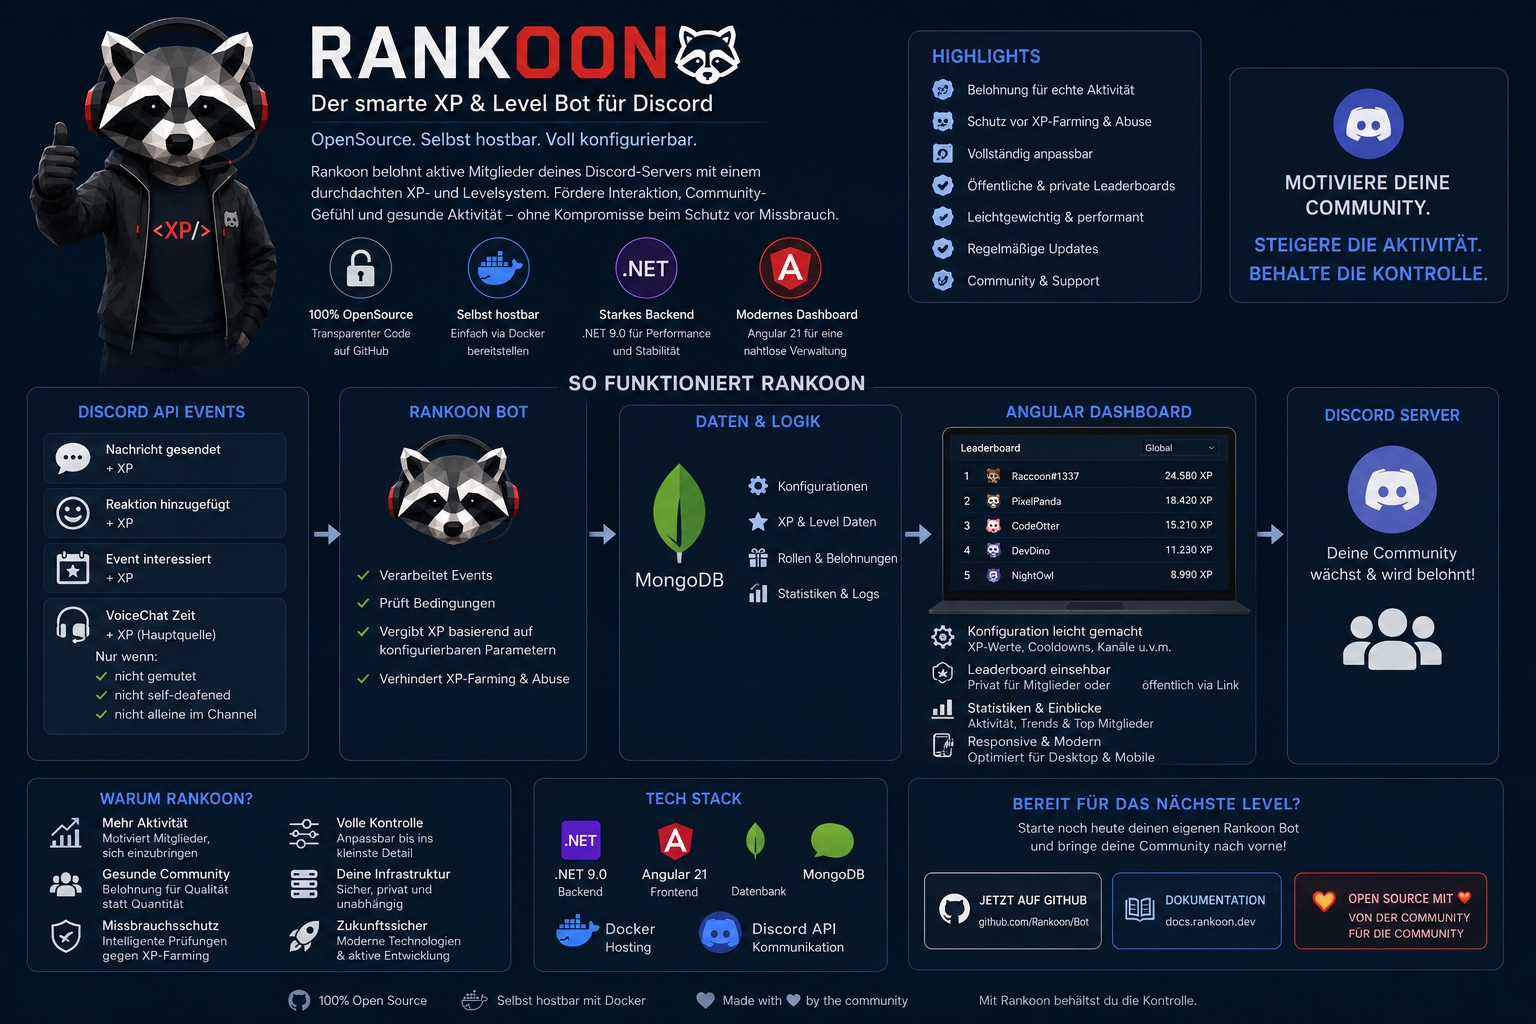
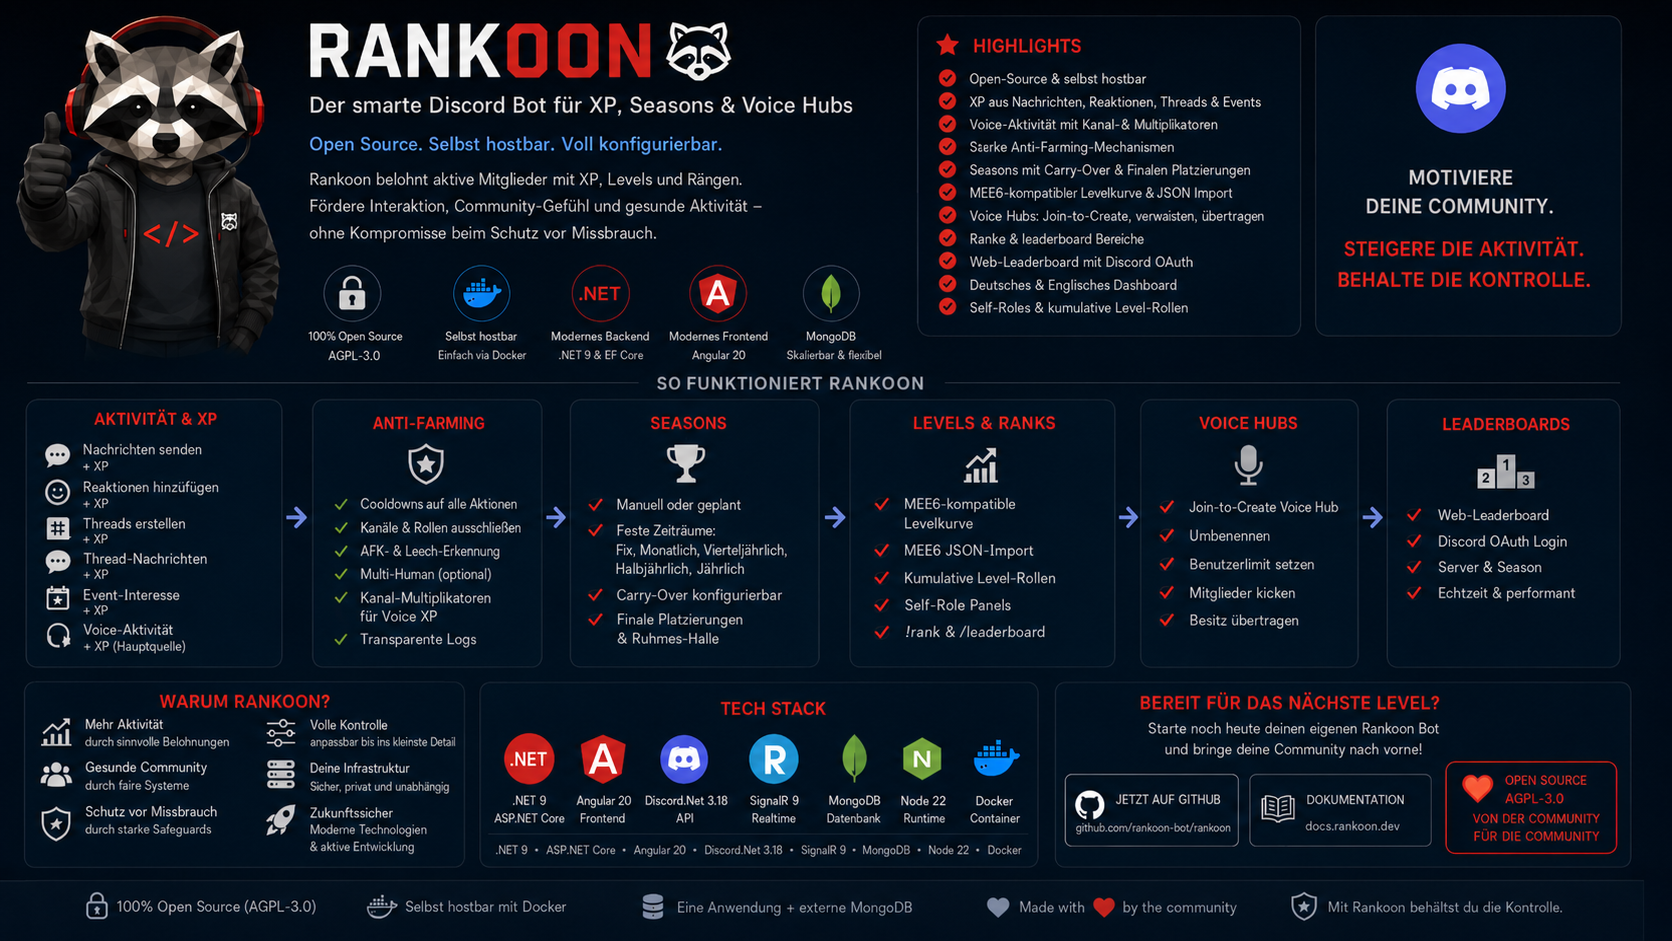
feat: implement unique user filtering in leaderboard and add loading spinner to main layout

Changed region(s): [[0.0, 0.0, 0.9688, 0.9862], [0.7812, 0.0308, 0.9688, 0.3082], [0.9688, 0.0616, 1.0, 0.0925]]

diff --git a/Frontend/src/app/pages/dashboard/dashboard.component.ts b/Frontend/src/app/pages/dashboard/dashboard.component.ts
@@ -1,4 +1,4 @@
-import { Component, inject, OnInit, signal } from '@angular/core';
+import { Component, effect, inject, signal } from '@angular/core';
 import { CommonModule } from '@angular/common';
 import { RouterLink } from '@angular/router';
 import { AuthStore } from '../../store/auth.store';
@@ -164,7 +164,7 @@ import { finalize } from 'rxjs';
   `,
   styleUrls: ['./dashboard.component.scss']
 })
-export class DashboardComponent implements OnInit {
+export class DashboardComponent {
   public readonly authStore = inject(AuthStore);
   public readonly appStore = inject(AppStore);
   private readonly guildService = inject(GuildService);
@@ -174,19 +174,38 @@ export class DashboardComponent implements OnInit {
   public readonly data = signal<DashboardData | null>(null);
   public readonly loading = signal(false);
   public readonly error = signal('');
+  private selectedGuildId: string | null = null;
+  private requestId = 0;
 
-  ngOnInit(): void {
-    this.loadDashboardData();
+  constructor() {
+    effect(() => {
+      const guildId = this.appStore.selectedGuild()?.id ?? null;
+      if (guildId === this.selectedGuildId) return;
+
+      this.selectedGuildId = guildId;
+      if (!guildId) {
+        this.data.set(null);
+        this.loading.set(false);
+        return;
+      }
+
+      this.loadDashboardData(guildId);
+    });
   }
 
-  loadDashboardData(): void {
-    const guild = this.appStore.selectedGuild();
-    if (!guild) return;
+  loadDashboardData(guildId = this.appStore.selectedGuild()?.id): void {
+    if (!guildId) return;
+    const requestId = ++this.requestId;
     this.loading.set(true);
     this.error.set('');
-    this.guildService.dashboard(guild.id).pipe(finalize(() => this.loading.set(false))).subscribe({
-      next: data => this.data.set(data),
+    this.guildService.dashboard(guildId).pipe(finalize(() => {
+      if (requestId === this.requestId) this.loading.set(false);
+    })).subscribe({
+      next: data => {
+        if (requestId === this.requestId) this.data.set(data);
+      },
       error: error => {
+        if (requestId !== this.requestId) return;
         this.data.set(null);
         this.error.set(this.apiErrors.resolve(error, 'errors.dashboardLoad').message);
       }

diff --git a/Frontend/src/app/layout/main-layout/main-layout.component.ts b/Frontend/src/app/layout/main-layout/main-layout.component.ts
@@ -1,6 +1,15 @@
-import { Component, effect, inject } from '@angular/core';
+import { Component, DestroyRef, effect, inject, signal } from '@angular/core';
 import { CommonModule } from '@angular/common';
-import { RouterOutlet } from '@angular/router';
+import {
+  NavigationCancel,
+  NavigationEnd,
+  NavigationError,
+  NavigationSkipped,
+  NavigationStart,
+  Router,
+  RouterOutlet,
+} from '@angular/router';
+import { takeUntilDestroyed } from '@angular/core/rxjs-interop';
 import { HeaderComponent } from '../header/header.component';
 import { SidebarComponent } from '../sidebar/sidebar.component';
 import { AuthStore } from '../../store/auth.store';
@@ -32,6 +41,11 @@ import { TranslocoPipe } from '@jsverse/transloco';
           [class.with-sidebar]="authStore.isAuthenticated()"
         >
           <router-outlet></router-outlet>
+          @if (isNavigating()) {
+            <div class="navigation-loading-overlay" aria-live="polite">
+              <div class="navigation-loading-spinner" role="status" [attr.aria-label]="'common.loading' | transloco"></div>
+            </div>
+          }
         </main>
       </div>
     </div>
@@ -42,10 +56,26 @@ export class MainLayoutComponent {
   readonly authStore = inject(AuthStore);
   readonly translations = inject(ModuleTranslationService);
   readonly layoutState = inject(LayoutStateService);
+  readonly isNavigating = signal(false);
   private readonly appStore = inject(AppStore);
   private readonly guildAccess = inject(GuildAccessService);
+  private readonly router = inject(Router);
+  private readonly destroyRef = inject(DestroyRef);
 
   constructor() {
+    this.router.events.pipe(takeUntilDestroyed(this.destroyRef)).subscribe((event) => {
+      if (event instanceof NavigationStart) {
+        this.isNavigating.set(true);
+      } else if (
+        event instanceof NavigationEnd ||
+        event instanceof NavigationCancel ||
+        event instanceof NavigationError ||
+        event instanceof NavigationSkipped
+      ) {
+        this.isNavigating.set(false);
+      }
+    });
+
     effect(() => {
       if (!this.authStore.isAuthenticated()) return;
 

diff --git a/Frontend/src/app/layout/main-layout/main-layout.component.scss b/Frontend/src/app/layout/main-layout/main-layout.component.scss
@@ -12,6 +12,7 @@
 }
 
 .main-content {
+  position: relative;
   flex: 1;
   padding: var(--rk-space-6);
   overflow-y: auto;
@@ -20,6 +21,28 @@
   &.with-sidebar {
     margin-left: 0;
   }
+}
+
+.navigation-loading-overlay {
+  position: absolute;
+  inset: 0;
+  z-index: var(--rk-z-overlay);
+  display: grid;
+  place-items: center;
+  background: var(--rk-overlay);
+}
+
+.navigation-loading-spinner {
+  width: var(--rk-spinner-size);
+  height: var(--rk-spinner-size);
+  border: var(--rk-spinner-stroke) solid var(--rk-border-strong);
+  border-top-color: var(--rk-brand);
+  border-radius: var(--rk-spinner-radius);
+  animation: navigation-spin var(--rk-motion-spinner) infinite;
+}
+
+@keyframes navigation-spin {
+  to { transform: rotate(1turn); }
 }
 
 .navigation-backdrop { display: none; }

diff --git a/Frontend/src/app/pages/dashboard/dashboard.component.spec.ts b/Frontend/src/app/pages/dashboard/dashboard.component.spec.ts
@@ -21,4 +21,22 @@ describe('DashboardComponent', () => {
     expect(alert.textContent).toContain('Dashboard unavailable');
     expect(alert.querySelector('button')).toBeTruthy();
   });
+
+  it('reloads when the selected guild changes', () => {
+    const firstGuild: Guild = { id: 'guild-1', name: 'Guild One', icon: null, owner: true, permissions: '8', features: [], botInstalled: true, inviteUrl: '' };
+    const secondGuild: Guild = { ...firstGuild, id: 'guild-2', name: 'Guild Two' };
+    TestBed.configureTestingModule({ imports: [DashboardComponent, testI18n], providers: [provideHttpClient(), provideHttpClientTesting(), provideRouter([])] });
+    const store = TestBed.inject(AppStore);
+    const http = TestBed.inject(HttpTestingController);
+    store.setSelectedGuild(firstGuild);
+    const fixture = TestBed.createComponent(DashboardComponent);
+    fixture.detectChanges();
+    http.expectOne(`${environment.apiBaseUrl}/guilds/guild-1/dashboard`).flush({ guildName: 'Guild One' });
+
+    store.setSelectedGuild(secondGuild);
+    fixture.detectChanges();
+
+    http.expectOne(`${environment.apiBaseUrl}/guilds/guild-2/dashboard`).flush({ guildName: 'Guild Two' });
+    expect(fixture.componentInstance.data()?.guildName).toBe('Guild Two');
+  });
 });

diff --git a/Frontend/src/styles/_tokens.scss b/Frontend/src/styles/_tokens.scss
@@ -38,6 +38,9 @@
   --rk-page-max-narrow: 960px;
   --rk-control-height: 44px;
   --rk-control-height-compact: 36px;
+  --rk-spinner-size: 40px;
+  --rk-spinner-stroke: 3px;
+  --rk-spinner-radius: 50%;
   --rk-overlay: rgb(0 0 0 / 58%);
   --rk-surface-hover: var(--rk-surface-2);
   --rk-surface-selected: var(--rk-brand-subtle);
@@ -56,4 +59,5 @@
   --rk-space-10: 40px;
   --rk-motion-fast: 120ms ease;
   --rk-motion-base: 180ms ease;
+  --rk-motion-spinner: 800ms linear;
 }

diff --git a/Backend/Backend.Tests/LeaderboardServiceTests.cs b/Backend/Backend.Tests/LeaderboardServiceTests.cs
@@ -1,0 +1,28 @@
+using Rankoon.Data.Xp;
+using Xunit;
+
+namespace Backend.Tests;
+
+public sealed class LeaderboardServiceTests
+{
+    [Fact]
+    public void UniqueUsers_keeps_only_the_first_entry_for_each_user()
+    {
+        var entries = new[]
+        {
+            Entry(1, "1"),
+            Entry(2, "2"),
+            Entry(3, "1"),
+            Entry(4, "3"),
+        };
+
+        var result = LeaderboardService.UniqueUsers(entries);
+
+        Assert.Collection(result,
+            entry => Assert.Equal((1, "1"), (entry.Rank, entry.UserId)),
+            entry => Assert.Equal((2, "2"), (entry.Rank, entry.UserId)),
+            entry => Assert.Equal((4, "3"), (entry.Rank, entry.UserId)));
+    }
+
+    private static LeaderboardEntryDto Entry(long rank, string userId) => new(rank, userId, userId, 0, 0, 0, 0, false);
+}

diff --git a/Backend/Data/Xp/LeaderboardService.cs b/Backend/Data/Xp/LeaderboardService.cs
@@ -119,7 +119,7 @@ public sealed class LeaderboardService(RankoonDbContext database, DiscordSharded
         if (firstRankHint == null && members.Count > 0)
             firstRank += await database.MemberXp.CountDocumentsAsync(rankFilter & AheadOf(members[0].TotalXp, members[0].UserId), cancellationToken: cancellationToken);
 
-        var items = members.Select((member, index) => new LeaderboardEntryDto(
+        var items = UniqueUsers(members.Select((member, index) => new LeaderboardEntryDto(
             firstRank + index,
             member.UserId.ToString(),
             member.DisplayName,
@@ -127,7 +127,7 @@ public sealed class LeaderboardService(RankoonDbContext database, DiscordSharded
             Mee6LevelCurve.GetLevel(member.TotalXp),
             member.MessageCount,
             member.VoiceSeconds,
-            currentUserId == member.UserId)).ToList();
+            currentUserId == member.UserId)).ToList());
         var nextCursor = hasMore && members.Count > 0 ? EncodeCursor(members[^1].TotalXp, members[^1].UserId, firstRank + members.Count - 1, SeasonLeaderboardScope.Lifetime, null) : null;
         bool? publicVisible = null;
         if (currentUserId != null)
@@ -252,8 +252,11 @@ public sealed class LeaderboardService(RankoonDbContext database, DiscordSharded
     private async Task<LeaderboardPageDto> CreateSeasonPageAsync(GuildLeaderboardSettings settings, GuildSeason season, bool isMember, ulong? currentUserId, IReadOnlyList<LeaderboardEntryDto> items, bool hasMore, string? nextCursor, SeasonLeaderboardScope scope, IReadOnlyList<SeasonLeaderboardOption> history, SeasonLeaderboardOption? current, bool seasonsEnabled, CancellationToken cancellationToken)
     {
         var publicVisible = await GetPublicVisibilityAsync(settings.GuildId, currentUserId, cancellationToken);
-        return new(discord.GetGuild(settings.GuildId)?.Name ?? settings.Alias, settings.Alias, settings.Visibility, items, nextCursor, hasMore, isMember, publicVisible, scope, season.Id, season.Name, history, current, seasonsEnabled);
+        return new(discord.GetGuild(settings.GuildId)?.Name ?? settings.Alias, settings.Alias, settings.Visibility, UniqueUsers(items), nextCursor, hasMore, isMember, publicVisible, scope, season.Id, season.Name, history, current, seasonsEnabled);
     }
+
+    internal static IReadOnlyList<LeaderboardEntryDto> UniqueUsers(IEnumerable<LeaderboardEntryDto> items) =>
+        items.DistinctBy(item => item.UserId).ToList();
 
     private LeaderboardPageDto EmptyScopedPage(GuildLeaderboardSettings settings, bool isMember, ulong? currentUserId, SeasonLeaderboardScope scope, string? seasonId, string? seasonName, IReadOnlyList<SeasonLeaderboardOption> history, SeasonLeaderboardOption? current, bool seasonsEnabled) =>
         new(discord.GetGuild(settings.GuildId)?.Name ?? settings.Alias, settings.Alias, settings.Visibility, [], null, false, isMember, currentUserId == null ? null : true, scope, seasonId, seasonName, history, current, seasonsEnabled);

diff --git a/Backend/Properties/AssemblyInfo.cs b/Backend/Properties/AssemblyInfo.cs
@@ -1,0 +1,3 @@
+using System.Runtime.CompilerServices;
+
+[assembly: InternalsVisibleTo("Backend.Tests")]